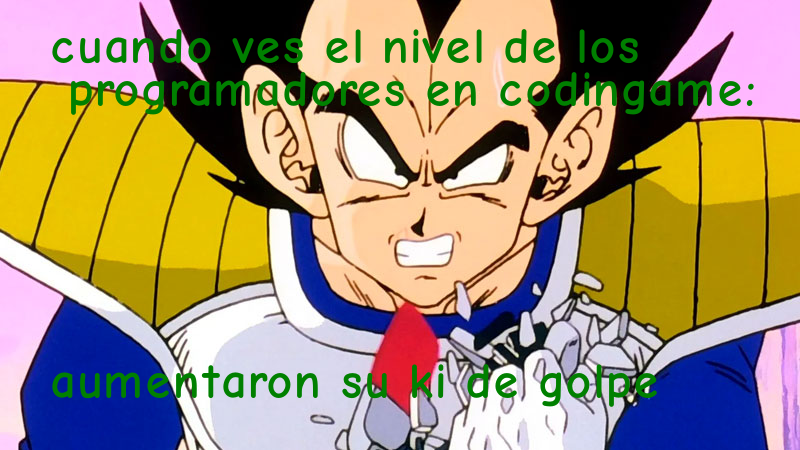
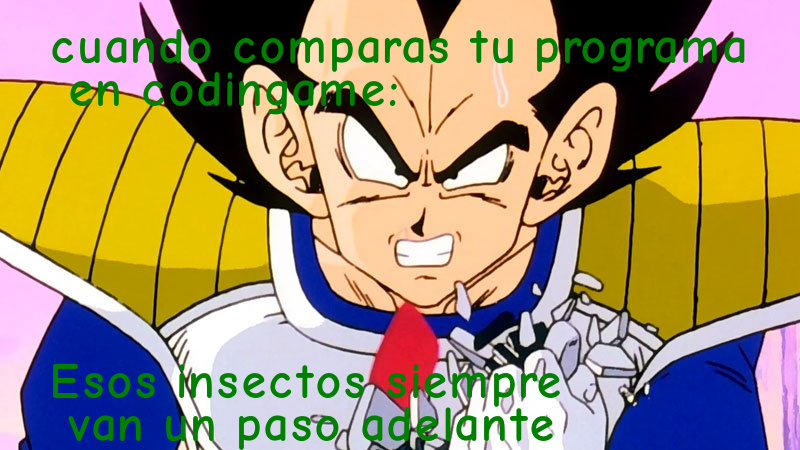
color verde

Changed region(s): [[0.0625, 0.8089, 0.8438, 1.0], [0.0625, 0.0622, 0.9375, 0.2489]]

diff --git a/MemGen.py b/MemGen.py
@@ -8,8 +8,8 @@ outputname='memev.png'
 memeimage=path.join(memefolder, memename)
 memeresult=path.join(memefolder, outputname)
 
-text1="cuando ves el nivel de los \n programadores en codingame:"
-text2="aumentaron su ki de golpe"
+text1="cuando comparas tu programa \n en codingame:"
+text2="Esos insectos siempre \n van un paso adelante"
 
 textsize=50
 origen1=(50, 25)
